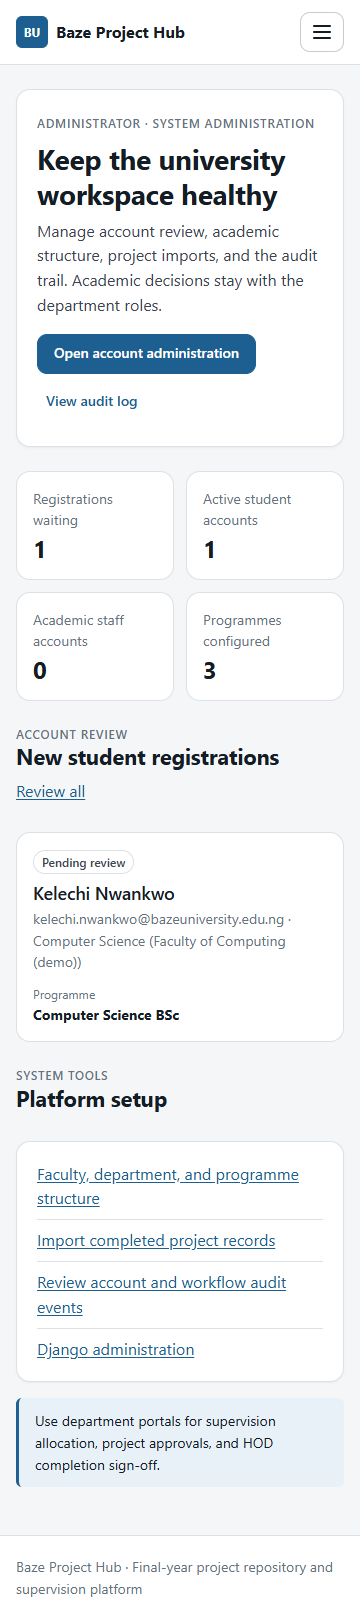
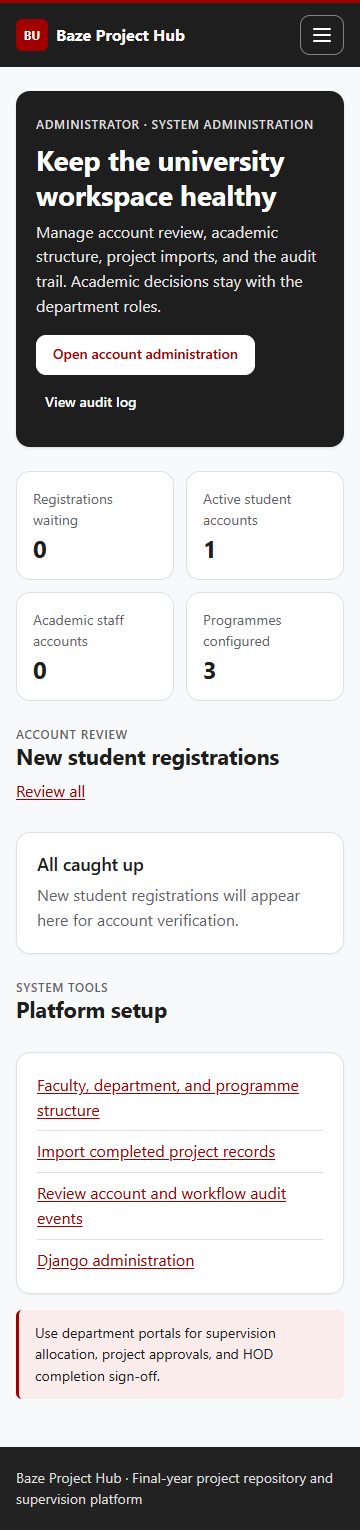
Baze University theme: crimson accent and charcoal bands
- tokens.css: crimson accent (#A00000, hover #C00000), off-white page
  (#F8F9FA), white cards, neutral greys. Header, footer and hero bands
  are charcoal (#1E1E1E / #222222); the project detail header is the
  medium-grey band (#555555). Inside a band the colour tokens are
  re-mapped (light text, translucent surfaces, white links, white
  buttons with crimson text), so components need no band-specific CSS.
- A crimson bar tops the header. Success messages are neutral with a
  crimson edge and the health "Watch" badge is dark grey, so red keeps
  meaning "at risk" and errors.
- Header fits on one row for every role from 1100 to 1920px; the name
  label only shows from 1600px.
- All text pairs meet WCAG AA; no horizontal overflow at 360/768/1280px.
- docs/screenshots regenerated.

diff --git a/projecthub_slice1/static/css/app.css b/projecthub_slice1/static/css/app.css
@@ -48,8 +48,7 @@ small { font-size: var(--text-sm); }
   position: sticky;
   top: 0;
   z-index: 10;
-  background: var(--gray-0);
-  border-bottom: var(--border);
+  border-top: 3px solid #a00000; /* the crimson brand bar; tokens are re-mapped inside .top */
 }
 .top-inner {
   max-width: var(--content-wide);
@@ -75,8 +74,8 @@ small { font-size: var(--text-sm); }
   width: 2rem;
   height: 2rem;
   border-radius: var(--radius-sm);
-  background: var(--accent);
-  color: var(--on-accent);
+  background: #a00000;
+  color: #ffffff;
   font-size: var(--text-xs);
   font-weight: 700;
 }
@@ -144,14 +143,16 @@ small { font-size: var(--text-sm); }
   margin: 0;
   padding: var(--space-3) var(--space-4);
   border-radius: var(--radius);
-  background: var(--accent-soft);
-  color: var(--accent-hover);
+  border-left: 3px solid var(--accent);
+  background: var(--gray-0);
+  color: var(--gray-900);
   font-weight: 500;
+  box-shadow: var(--shadow-sm);
 }
-.msg.warning { background: var(--gray-50); color: var(--gray-900); border-left: 3px solid var(--accent); }
+.msg.warning { background: var(--gray-0); color: var(--gray-900); border-left: 3px solid var(--danger); }
 .breadcrumb { margin: 0; font-size: var(--text-sm); }
 .breadcrumb a { text-decoration: none; }
-.site-footer { border-top: var(--border); background: var(--gray-0); }
+.site-footer { border-top: 0; }
 .footer-inner {
   max-width: var(--content-wide);
   margin: 0 auto;
@@ -168,10 +169,9 @@ small { font-size: var(--text-sm); }
   flex-direction: column;
   gap: var(--space-5);
   padding: var(--space-6) var(--space-5);
-  background: var(--gray-0);
-  border: var(--border);
+  border: 0;
   border-radius: var(--radius-lg);
-  box-shadow: var(--shadow-sm);
+  box-shadow: var(--shadow);
 }
 .hero-copy { max-width: 44rem; }
 .hero-copy > p:not(.eyebrow), .repository-hero p:not(.eyebrow), .supervisor-welcome p:not(.eyebrow) { color: var(--gray-700); max-width: 40rem; }
@@ -520,10 +520,20 @@ td form { display: flex; flex-wrap: wrap; gap: var(--space-2); margin: 0; }
 .filter-row { display: flex; flex-wrap: wrap; align-items: flex-end; gap: var(--space-3); }
 .filter-row > div { flex: 1 1 14rem; min-width: 0; }
 
-/* Header fit: keep the brand on one line; the name label returns on wide screens */
+/* Header fit: one row on desktop for every role (the coordinator has the most links). Links are
+   tightened and never wrap; the name label only returns on very wide screens. */
 .brand { white-space: nowrap; flex-shrink: 0; }
-@media (min-width: 1100px) and (max-width: 1359px) {
+@media (min-width: 1100px) {
+  .top-nav, .nav-js .top-nav:not(.is-open) { flex-wrap: nowrap; gap: 0; }
+  .top-nav a { padding: var(--space-2) 0.45rem; font-size: 0.8125rem; white-space: nowrap; }
+  .top-nav .inline-form { margin-left: var(--space-2); }
   .top-nav .who { display: none; }
+}
+@media (min-width: 1100px) and (max-width: 1199px) {
+  .top-nav a { padding: var(--space-2) 0.3rem; font-size: 0.78rem; }
+}
+@media (min-width: 1600px) {
+  .top-nav .who { display: inline; white-space: nowrap; }
 }
 .detail-hero .sample-label { align-self: flex-start; }
 
@@ -537,7 +547,7 @@ td form { display: flex; flex-wrap: wrap; gap: var(--space-2); margin: 0; }
 .health-reasons { margin: 0; padding-left: var(--space-5); color: var(--gray-700); font-size: var(--text-sm); overflow-wrap: anywhere; }
 .health-reasons li + li { margin-top: var(--space-1); }
 .health-on_track .health-badge { background: var(--gray-100); border-color: transparent; color: var(--gray-700); }
-.health-watch .health-badge { background: var(--accent-soft); border-color: var(--accent); color: var(--accent-hover); }
+.health-watch .health-badge { background: var(--gray-100); border-color: var(--gray-700); color: var(--gray-900); }
 .health-at_risk .health-badge { background: var(--danger-soft); border-color: var(--danger); color: var(--danger); }
 
 /* Alerts (notifications from run_automation) */

diff --git a/projecthub_slice1/static/css/tokens.css b/projecthub_slice1/static/css/tokens.css
@@ -3,22 +3,27 @@
    uses: card, button and badge. Page layouts live in app.css and use these variables only. */
 
 :root {
-  /* Colour: one accent, neutral greys, one functional red for errors */
-  --accent: #1d5f91;
-  --accent-hover: #174d76;
-  --accent-soft: #e9f1f8;
+  /* Colour: Baze University palette. Crimson accent, off-white page, white cards, neutral greys,
+     charcoal and medium-grey bands (header, footer, heroes), one functional red for errors.
+     Every text pair used meets WCAG AA (4.5:1); the weakest is light text on the mid band at 5.5:1. */
+  --accent: #a00000;        /* crimson: buttons, links, brand mark */
+  --accent-hover: #c00000;
+  --accent-soft: #fbecec;
   --on-accent: #ffffff;
-  --gray-0: #ffffff;
-  --gray-25: #fafbfc;
-  --gray-50: #f4f6f8;
-  --gray-100: #eaeef2;
-  --gray-200: #dbe1e7;
-  --gray-300: #c3ccd5;
-  --gray-500: #66727e;
-  --gray-700: #3a4550;
-  --gray-900: #141c24;
+  --gray-0: #ffffff;        /* surfaces: cards, fields */
+  --gray-25: #fcfcfd;
+  --gray-50: #f8f9fa;       /* page background */
+  --gray-100: #eceef0;
+  --gray-200: #dfe2e5;
+  --gray-300: #c5c9cd;
+  --gray-500: #5f6368;
+  --gray-700: #3a3d40;
+  --gray-900: #1e1e1e;
   --danger: #b42318;
   --danger-soft: #fdeceb;
+  --band-dark: #1e1e1e;     /* header and hero bands */
+  --band-footer: #222222;
+  --band-mid: #555555;      /* alternating band: project detail header */
 
   /* Spacing scale (4px base) */
   --space-1: 0.25rem;
@@ -49,9 +54,9 @@
   --radius-lg: 14px;
   --radius-full: 999px;
   --border: 1px solid var(--gray-200);
-  --shadow-sm: 0 1px 2px rgba(20, 28, 36, 0.05);
-  --shadow: 0 1px 3px rgba(20, 28, 36, 0.07), 0 1px 2px rgba(20, 28, 36, 0.04);
-  --focus: 0 0 0 3px rgba(29, 95, 145, 0.28);
+  --shadow-sm: 0 1px 2px rgba(30, 30, 30, 0.06);
+  --shadow: 0 1px 3px rgba(30, 30, 30, 0.08), 0 1px 2px rgba(30, 30, 30, 0.05);
+  --focus: 0 0 0 3px rgba(160, 0, 0, 0.28);
 
   /* Layout */
   --content-width: 72rem;
@@ -162,3 +167,29 @@
   color: var(--gray-500);
   font-weight: 500;
 }
+
+/* ---------- Dark bands ----------
+   The header, footer and hero bands re-map the colour tokens instead of restyling each element:
+   inside a band, text tokens turn light, surfaces turn translucent, and the accent turns white, so
+   links are white and primary buttons are white with crimson text ("APPLY NOW" style). */
+.top, .site-footer, .hero-band, .repository-hero, .supervisor-welcome, .detail-hero {
+  --gray-900: #ffffff;
+  --gray-700: #e6e6e6;
+  --gray-500: #dddddd;
+  --gray-300: rgba(255, 255, 255, 0.45);
+  --gray-200: rgba(255, 255, 255, 0.28);
+  --gray-100: rgba(255, 255, 255, 0.14);
+  --gray-50: rgba(255, 255, 255, 0.08);
+  --gray-25: rgba(255, 255, 255, 0.06);
+  --gray-0: transparent;
+  --accent: #ffffff;
+  --accent-hover: #ffe0e0;
+  --accent-soft: rgba(255, 255, 255, 0.14);
+  --on-accent: #a00000;
+  --border: 1px solid rgba(255, 255, 255, 0.28);
+  --focus: 0 0 0 3px rgba(255, 255, 255, 0.45);
+  color: #ffffff;
+}
+.top, .hero-band, .repository-hero, .supervisor-welcome { background: var(--band-dark); }
+.site-footer { background: var(--band-footer); }
+.detail-hero { background: var(--band-mid); }

diff --git a/projecthub_slice1/templates/base.html b/projecthub_slice1/templates/base.html
@@ -5,8 +5,8 @@
   <meta name="viewport" content="width=device-width, initial-scale=1">
   <title>{% block title %}Baze Project Hub{% endblock %}</title>
   <meta name="color-scheme" content="light">
-  <link rel="stylesheet" href="{% static 'css/tokens.css' %}?v=1">
-  <link rel="stylesheet" href="{% static 'css/app.css' %}?v=15">
+  <link rel="stylesheet" href="{% static 'css/tokens.css' %}?v=3">
+  <link rel="stylesheet" href="{% static 'css/app.css' %}?v=18">
 </head>
 <body>
 <header class="top">
